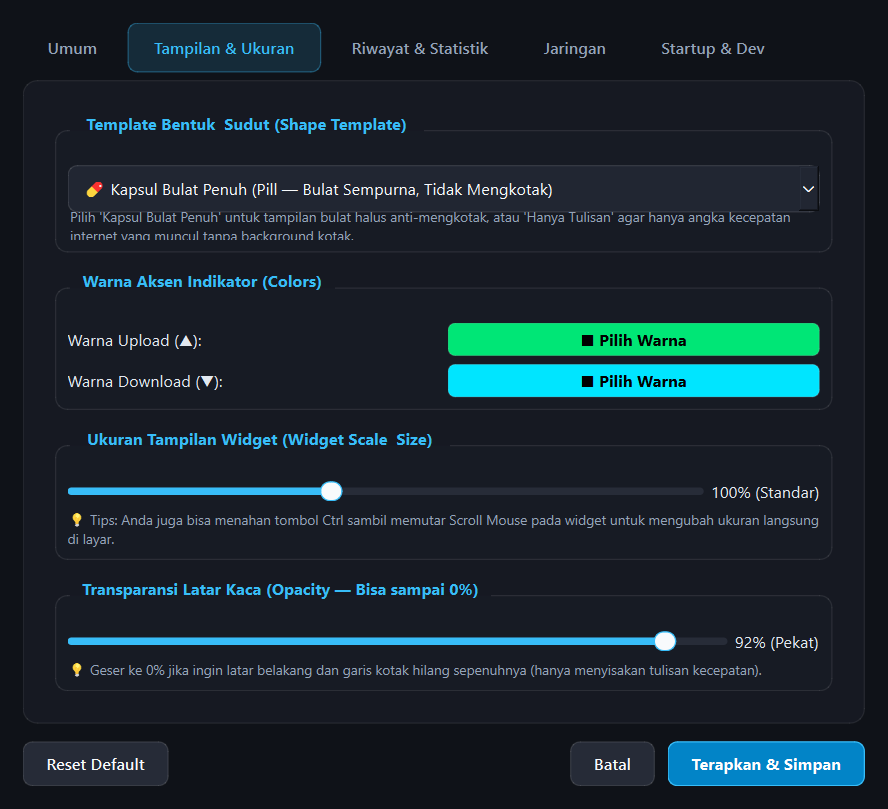
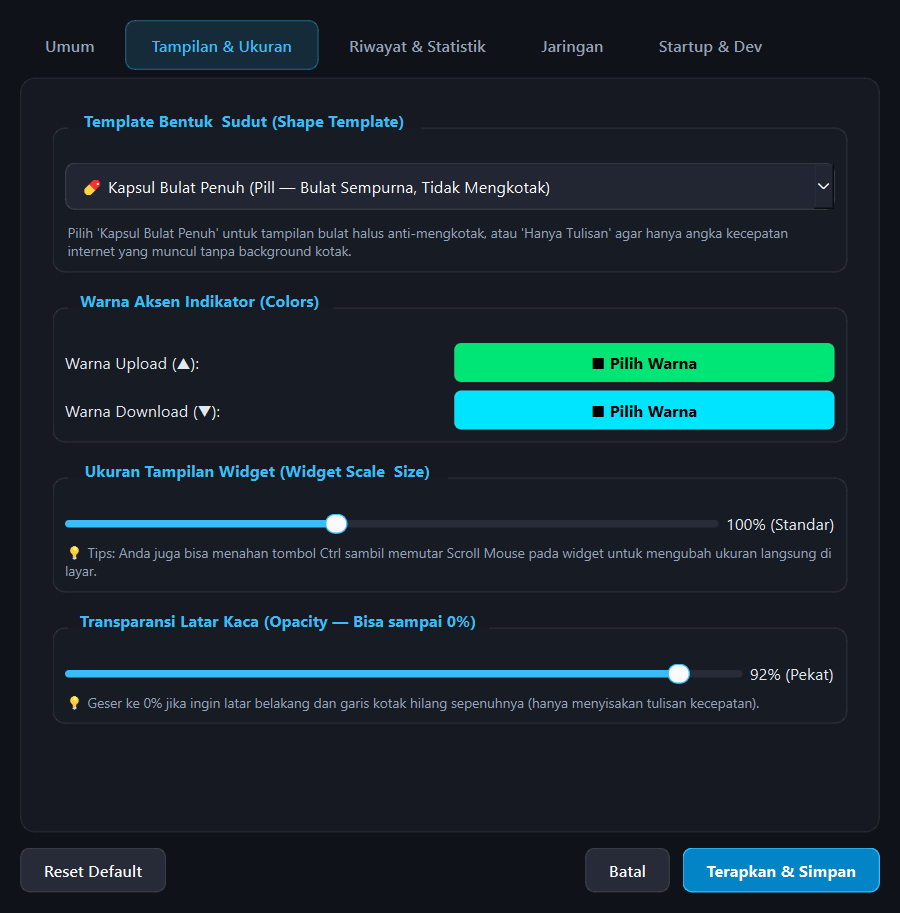
feat: add quick network data usage summary directly to General settings tab

diff --git a/settings_dialog.py b/settings_dialog.py
@@ -1,4 +1,5 @@
 import sys
+import datetime
 import webbrowser
 from PySide6.QtCore import Qt, Signal, QUrl
 from PySide6.QtGui import QDesktopServices, QColor
@@ -36,8 +37,8 @@ class SettingsDialog(QDialog):
         self.traffic_history = traffic_history or TrafficHistory()
 
         self.setWindowTitle("Pengaturan & Riwayat — Modern Speed Meter")
-        self.resize(710, 640)
-        self.setMinimumSize(680, 580)
+        self.resize(720, 730)
+        self.setMinimumSize(680, 680)
         self.setStyleSheet(styles.get_settings_dialog_style())
 
         self._setup_ui()
@@ -45,8 +46,8 @@ class SettingsDialog(QDialog):
 
     def _setup_ui(self):
         main_layout = QVBoxLayout(self)
-        main_layout.setContentsMargins(18, 18, 18, 18)
-        main_layout.setSpacing(14)
+        main_layout.setContentsMargins(16, 16, 16, 16)
+        main_layout.setSpacing(12)
 
         # Tab Widget
         self.tabs = QTabWidget(self)
@@ -82,7 +83,7 @@ class SettingsDialog(QDialog):
     def _build_general_tab(self) -> QWidget:
         tab = QWidget()
         layout = QVBoxLayout(tab)
-        layout.setSpacing(14)
+        layout.setSpacing(12)
 
         # Mode Selection
         grp_mode = QGroupBox("Gaya Tampilan Widget (Layout Mode)", tab)
@@ -100,7 +101,7 @@ class SettingsDialog(QDialog):
         layout.addWidget(grp_mode)
 
         # Behavior Group
-        grp_behav = QGroupBox("Perilaku Jendela & Posisi Taskbar", tab)
+        grp_behav = QGroupBox("Perilaku Jendela && Posisi Taskbar", tab)
         v_behav = QVBoxLayout(grp_behav)
         self.chk_ontop = QCheckBox("Selalu di Atas (Always on Top)", grp_behav)
         self.chk_locked = QCheckBox("Kunci Posisi Sepenuhnya (Disable Drag)", grp_behav)
@@ -123,11 +124,13 @@ class SettingsDialog(QDialog):
         row_quick = QHBoxLayout()
         row_quick.setSpacing(8)
 
-        self.btn_dock_taskbar = QPushButton("📌 Masuk ke Dalam Taskbar", grp_behav)
+        self.btn_dock_taskbar = QPushButton("Masuk ke Dalam Taskbar", grp_behav)
         self.btn_dock_taskbar.setObjectName("PrimaryButton")
+        self.btn_dock_taskbar.setMinimumHeight(32)
         self.btn_dock_taskbar.clicked.connect(self._dock_now)
 
-        self.btn_snap_now = QPushButton("⚡ Snap Samping Wi-Fi", grp_behav)
+        self.btn_snap_now = QPushButton("Snap Samping Wi-Fi", grp_behav)
+        self.btn_snap_now.setMinimumHeight(32)
         self.btn_snap_now.clicked.connect(lambda: self.snap_requested.emit())
 
         row_quick.addWidget(self.btn_dock_taskbar)
@@ -141,6 +144,58 @@ class SettingsDialog(QDialog):
         v_behav.addWidget(lbl_click_hint)
         v_behav.addLayout(row_quick)
         layout.addWidget(grp_behav)
+
+        # Quick Data Usage Summary Group directly on Umum tab
+        grp_hist = QGroupBox("Riwayat Penggunaan Data Jaringan (Data Usage)", tab)
+        v_hist = QVBoxLayout(grp_hist)
+        v_hist.setSpacing(8)
+
+        row_stats = QHBoxLayout()
+        row_stats.setSpacing(8)
+
+        # Hari Ini Card
+        box_today = QFrame(grp_hist)
+        box_today.setStyleSheet("background-color: #171B24; border: 1px solid rgba(255, 255, 255, 0.08); border-radius: 8px;")
+        v_today = QVBoxLayout(box_today)
+        v_today.setContentsMargins(10, 8, 10, 8)
+        v_today.setSpacing(2)
+        lbl_t_title = QLabel("HARI INI (TODAY)", box_today)
+        lbl_t_title.setStyleSheet("color: #94A3B8; font-size: 7.5pt; font-weight: 600; text-transform: uppercase; background: transparent;")
+        self.lbl_general_today_val = QLabel("0.00 B", box_today)
+        self.lbl_general_today_val.setStyleSheet("color: #00E5FF; font-size: 11.5pt; font-weight: 700; background: transparent;")
+        self.lbl_general_today_sub = QLabel("▼ 0 B  •  ▲ 0 B", box_today)
+        self.lbl_general_today_sub.setStyleSheet("color: #94A3B8; font-size: 8pt; background: transparent;")
+        v_today.addWidget(lbl_t_title)
+        v_today.addWidget(self.lbl_general_today_val)
+        v_today.addWidget(self.lbl_general_today_sub)
+        row_stats.addWidget(box_today)
+
+        # Bulan Ini Card
+        box_month = QFrame(grp_hist)
+        box_month.setStyleSheet("background-color: #171B24; border: 1px solid rgba(255, 255, 255, 0.08); border-radius: 8px;")
+        v_month = QVBoxLayout(box_month)
+        v_month.setContentsMargins(10, 8, 10, 8)
+        v_month.setSpacing(2)
+        lbl_m_title = QLabel("BULAN INI (THIS MONTH)", box_month)
+        lbl_m_title.setStyleSheet("color: #94A3B8; font-size: 7.5pt; font-weight: 600; text-transform: uppercase; background: transparent;")
+        self.lbl_general_month_val = QLabel("0.00 B", box_month)
+        self.lbl_general_month_val.setStyleSheet("color: #00E676; font-size: 11.5pt; font-weight: 700; background: transparent;")
+        self.lbl_general_month_sub = QLabel("▼ 0 B  •  ▲ 0 B", box_month)
+        self.lbl_general_month_sub.setStyleSheet("color: #94A3B8; font-size: 8pt; background: transparent;")
+        v_month.addWidget(lbl_m_title)
+        v_month.addWidget(self.lbl_general_month_val)
+        v_month.addWidget(self.lbl_general_month_sub)
+        row_stats.addWidget(box_month)
+
+        v_hist.addLayout(row_stats)
+
+        self.btn_goto_history = QPushButton("Lihat Grafik Lengkap && Rincian Riwayat ↗", grp_hist)
+        self.btn_goto_history.setObjectName("PrimaryButton")
+        self.btn_goto_history.setCursor(Qt.CursorShape.PointingHandCursor)
+        self.btn_goto_history.clicked.connect(self._goto_history_tab)
+        v_hist.addWidget(self.btn_goto_history)
+
+        layout.addWidget(grp_hist)
 
         layout.addStretch()
         return tab
@@ -460,6 +515,30 @@ class SettingsDialog(QDialog):
             self.table_history.setItem(row, 1, down_item)
             self.table_history.setItem(row, 2, up_item)
             self.table_history.setItem(row, 3, total_item)
+
+        # Update General Tab quick usage summary cards if present
+        if hasattr(self, "lbl_general_today_val"):
+            today_recs = self.traffic_history.get_today_hourly()
+            today_s = self.traffic_history.get_summary(today_recs)
+            self.lbl_general_today_val.setText(TrafficHistory.format_bytes(today_s["total_bytes"]))
+            self.lbl_general_today_sub.setText(
+                f"▼ {TrafficHistory.format_bytes(today_s['total_recv'])}  •  ▲ {TrafficHistory.format_bytes(today_s['total_sent'])}"
+            )
+
+        if hasattr(self, "lbl_general_month_val"):
+            now = datetime.date.today()
+            month_recs = self.traffic_history.get_custom_month(now.year, now.month)
+            month_s = self.traffic_history.get_summary(month_recs)
+            self.lbl_general_month_val.setText(TrafficHistory.format_bytes(month_s["total_bytes"]))
+            self.lbl_general_month_sub.setText(
+                f"▼ {TrafficHistory.format_bytes(month_s['total_recv'])}  •  ▲ {TrafficHistory.format_bytes(month_s['total_sent'])}"
+            )
+
+    def _goto_history_tab(self):
+        for i in range(self.tabs.count()):
+            if "Riwayat" in self.tabs.tabText(i):
+                self.tabs.setCurrentIndex(i)
+                break
 
     def _clear_history_data(self):
         reply = QMessageBox.question(

diff --git a/README.md b/README.md
@@ -30,7 +30,7 @@ A sleek, lightweight, and modern real-time internet speed monitor & data usage a
 
 ### ⚙ Pengaturan Tampilan, Bentuk & Perilaku Window
 
-| Tab Tampilan & Ukuran (Shape & Opacity 0%) | Tab Umum (Mode Layout & Click-Through) |
+| Tab Tampilan & Ukuran (Shape & Opacity 0%) | Tab Umum (Mode Layout & Riwayat Cepat) |
 | :---: | :---: |
 | <img src="assets/settings_appearance.png" width="350" alt="Pengaturan Tampilan & Ukuran"> | <img src="assets/settings_general.png" width="350" alt="Pengaturan Umum"> |
 
@@ -39,6 +39,7 @@ A sleek, lightweight, and modern real-time internet speed monitor & data usage a
 ## 🌟 Fitur Unggulan (Key Features)
 
 ### 1. 📊 Riwayat & Statistik Penggunaan Kuota (Traffic History & Analytics)
+- **Ringkasan Langsung di Tab Umum**: Kartu rekapitulasi cepat pemakaian Hari Ini dan Bulan Ini langsung terpampang di tab pertama (Umum) lengkap dengan tombol akses cepat menuju grafik interaktif.
 - **Penyimpanan Lokal Persisten**: Otomatis merekam dan menjumlahkan penggunaan download & upload per jam ke database lokal SQLite (`~/.speed_meter/traffic_history.db`).
 - **4 Rentang Periode Analisis**:
   - 🕒 **Hari Ini (24 Jam)**: Rincian penggunaan data per jam (00:00 s/d 23:00).
